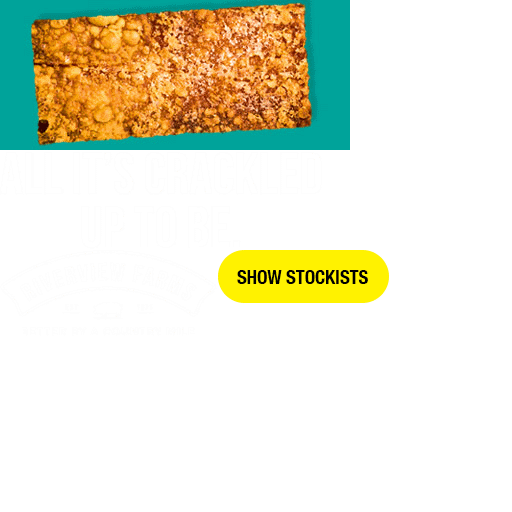
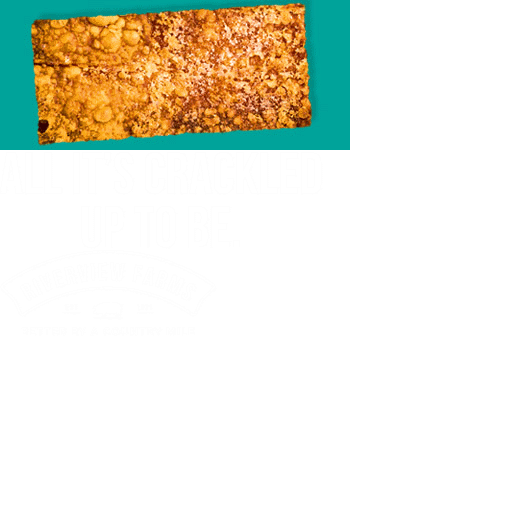
Add files via upload

Changed region(s): [[0.4062, 0.4688, 0.7812, 0.5938]]

diff --git a/index.js b/index.js
@@ -3,7 +3,7 @@
 var p; // shortcut to reference prototypes
 var lib={};var ss={};var img={};
 lib.ssMetadata = [
-		{name:"index_atlas_1", frames: [[0,152,322,96],[218,250,171,53],[0,0,350,150],[0,250,216,85]]}
+		{name:"index_atlas_1", frames: [[0,152,322,96],[0,0,350,150],[0,250,216,85]]}
 ];
 
 
@@ -33,23 +33,16 @@ lib.ssMetadata = [
 
 
 
-(lib.cta = function() {
+(lib.image1 = function() {
 	this.initialize(ss["index_atlas_1"]);
 	this.gotoAndStop(1);
 }).prototype = p = new cjs.Sprite();
 
 
 
-(lib.image1 = function() {
-	this.initialize(ss["index_atlas_1"]);
-	this.gotoAndStop(2);
-}).prototype = p = new cjs.Sprite();
-
-
-
 (lib.logo = function() {
 	this.initialize(ss["index_atlas_1"]);
-	this.gotoAndStop(3);
+	this.gotoAndStop(2);
 }).prototype = p = new cjs.Sprite();
 // helper functions:
 
@@ -95,7 +88,7 @@ if (reversed == null) { reversed = false; }
 p.nominalBounds = new cjs.Rectangle(0,0,165,52);
 
 
-(lib.Symbol10 = function(mode,startPosition,loop,reversed) {
+(lib.Symbol7 = function(mode,startPosition,loop,reversed) {
 if (loop == null) { loop = true; }
 if (reversed == null) { reversed = false; }
 	var props = new Object();
@@ -107,14 +100,13 @@ if (reversed == null) { reversed = false; }
 	cjs.MovieClip.apply(this,[props]);
 
 	// Layer_1
-	this.instance = new lib.cta();
-	this.instance.setTransform(0,0,0.8772,0.8771);
+	this.instance = new lib.logo();
 
 	this.timeline.addTween(cjs.Tween.get(this.instance).wait(1));
 
 	this._renderFirstFrame();
 
-}).prototype = getMCSymbolPrototype(lib.Symbol10, new cjs.Rectangle(0,0,150,46.5), null);
+}).prototype = getMCSymbolPrototype(lib.Symbol7, new cjs.Rectangle(0,0,216,85), null);
 
 
 (lib.Symbol5 = function(mode,startPosition,loop,reversed) {
@@ -187,29 +179,6 @@ if (reversed == null) { reversed = false; }
 p.nominalBounds = new cjs.Rectangle(0,0,350,150);
 
 
-(lib.Symbol2 = function(mode,startPosition,loop,reversed) {
-if (loop == null) { loop = true; }
-if (reversed == null) { reversed = false; }
-	var props = new Object();
-	props.mode = mode;
-	props.startPosition = startPosition;
-	props.labels = {};
-	props.loop = loop;
-	props.reversed = reversed;
-	cjs.MovieClip.apply(this,[props]);
-
-	// Layer_1
-	this.instance = new lib.logo();
-	this.instance.setTransform(0,0,1.1379,1.1379);
-
-	this.timeline.addTween(cjs.Tween.get(this.instance).wait(1));
-
-	this._renderFirstFrame();
-
-}).prototype = p = new cjs.MovieClip();
-p.nominalBounds = new cjs.Rectangle(0,0,245.8,96.7);
-
-
 (lib.Symbol1 = function(mode,startPosition,loop,reversed) {
 if (loop == null) { loop = true; }
 if (reversed == null) { reversed = false; }
@@ -232,7 +201,7 @@ if (reversed == null) { reversed = false; }
 p.nominalBounds = new cjs.Rectangle(0,0,322,96);
 
 
-(lib.Symbol8 = function(mode,startPosition,loop,reversed) {
+(lib.Symbol6 = function(mode,startPosition,loop,reversed) {
 if (loop == null) { loop = true; }
 if (reversed == null) { reversed = false; }
 	var props = new Object();
@@ -252,15 +221,15 @@ if (reversed == null) { reversed = false; }
 	this.timeline.addTween(cjs.Tween.get(this).wait(19).call(this.frame_19).wait(1));
 
 	// Layer_1
-	this.instance = new lib.Symbol10();
-	this.instance.setTransform(75,23.2,1,1,0,0,0,75,23.2);
+	this.instance = new lib.Symbol7();
+	this.instance.setTransform(108,42.5,1,1,0,0,0,108,42.5);
 
-	this.timeline.addTween(cjs.Tween.get(this.instance).to({regX:74.9,regY:23.1,scaleX:1.1641,scaleY:1.1641,x:75.1,y:23.25},9,cjs.Ease.get(-1)).wait(1).to({regX:75,regY:23.2,scaleX:1,scaleY:1,x:75,y:23.2},9,cjs.Ease.get(-1)).wait(1));
+	this.timeline.addTween(cjs.Tween.get(this.instance).to({scaleX:1.1713,scaleY:1.1713,x:108.05,y:42.55},9).to({scaleX:1,scaleY:1,x:108,y:42.5},10).wait(1));
 
 	this._renderFirstFrame();
 
 }).prototype = p = new cjs.MovieClip();
-p.nominalBounds = new cjs.Rectangle(-12.1,-3.6,174.6,54.1);
+p.nominalBounds = new cjs.Rectangle(-18.4,-7.2,253,99.5);
 
 
 // stage content:
@@ -294,13 +263,13 @@ if (reversed == null) { reversed = false; }
 		this.btn.addEventListener("mouseover", MYFUNCTION);
 		function MYFUNCTION()
 		{
-			root.cta.gotoAndPlay("over");
+			root.logo.gotoAndPlay("over");
 		}
 		
 		this.btn.addEventListener("mouseout", MYFUNCTION2);
 		function MYFUNCTION2()
 		{
-			root.cta.gotoAndPlay("out");
+			root.logo.gotoAndPlay("out");
 		}
 	}
 
@@ -310,28 +279,19 @@ if (reversed == null) { reversed = false; }
 	// Layer_7
 	this.ctaClick = new lib.Symbol11();
 	this.ctaClick.name = "ctaClick";
-	this.ctaClick.setTransform(796.2,61.05,1.1139,1.2691,0,0,0,82.5,26.4);
+	this.ctaClick.setTransform(624.15,60.9,1.3548,1.7247,0,0,0,82.6,26.4);
 	this.ctaClick._off = true;
 	new cjs.ButtonHelper(this.ctaClick, 0, 1, 2, false, new lib.Symbol11(), 3);
 
-	this.timeline.addTween(cjs.Tween.get(this.ctaClick).wait(60).to({_off:false},0).wait(5));
+	this.timeline.addTween(cjs.Tween.get(this.ctaClick).wait(34).to({_off:false},0).wait(31));
 
 	// btn
 	this.btn = new lib.Symbol5();
 	this.btn.name = "btn";
-	this.btn.setTransform(624,70,1,1,0,0,0,600,60);
+	this.btn.setTransform(624,60.1,1,0.8333,0,0,0,600,60.1);
 	new cjs.ButtonHelper(this.btn, 0, 1, 2, false, new lib.Symbol5(), 3);
 
 	this.timeline.addTween(cjs.Tween.get(this.btn).wait(65));
-
-	// cta
-	this.cta = new lib.Symbol8();
-	this.cta.name = "cta";
-	this.cta.setTransform(796,60.15,1.1158,1.1158,0,0,0,75,23.4);
-	this.cta.alpha = 0;
-	this.cta._off = true;
-
-	this.timeline.addTween(cjs.Tween.get(this.cta).wait(60).to({_off:false},0).to({alpha:1},4).wait(1));
 
 	// crackle_2
 	this.instance = new lib.Symbol4();
@@ -348,20 +308,19 @@ if (reversed == null) { reversed = false; }
 	this.timeline.addTween(cjs.Tween.get(this.instance_1).wait(9).to({rotation:-4.9659,y:20.35},5).to({rotation:0,y:35.8},5).wait(16).to({rotation:-4.9659,y:20.35},5).to({rotation:0,y:35.8},5).wait(20));
 
 	// logo
-	this.instance_2 = new lib.Symbol2();
-	this.instance_2.setTransform(624,60.05,1,1,0,0,0,122.9,48.4);
-	this.instance_2.alpha = 0;
-	this.instance_2._off = true;
-	new cjs.ButtonHelper(this.instance_2, 0, 1, 1);
+	this.logo = new lib.Symbol6();
+	this.logo.name = "logo";
+	this.logo.setTransform(624,60.5,1,1,0,0,0,108,42.5);
+	this.logo._off = true;
 
-	this.timeline.addTween(cjs.Tween.get(this.instance_2).wait(29).to({_off:false},0).to({alpha:1},5).wait(26).to({x:541.4},4).wait(1));
+	this.timeline.addTween(cjs.Tween.get(this.logo).wait(34).to({_off:false},0).wait(31));
 
 	// copy
-	this.instance_3 = new lib.Symbol1();
-	this.instance_3.setTransform(624,60,0.9295,0.9295,0,0,0,161,48);
-	new cjs.ButtonHelper(this.instance_3, 0, 1, 1);
+	this.instance_2 = new lib.Symbol1();
+	this.instance_2.setTransform(624,60,0.9295,0.9295,0,0,0,161,48);
+	new cjs.ButtonHelper(this.instance_2, 0, 1, 1);
 
-	this.timeline.addTween(cjs.Tween.get(this.instance_3).to({regX:161.1,regY:48.1,scaleX:1.0698,scaleY:1.0698,x:624.1,y:60.15},9).to({regX:161,regY:48,scaleX:0.9295,scaleY:0.9295,x:624,y:60},5).wait(15).to({alpha:0},5).to({_off:true},1).wait(30));
+	this.timeline.addTween(cjs.Tween.get(this.instance_2).to({regX:161.1,regY:48.1,scaleX:1.0698,scaleY:1.0698,x:624.1,y:60.15},9).to({regX:161,regY:48,scaleX:0.9295,scaleY:0.9295,x:624,y:60},5).wait(15).to({alpha:0},5).to({_off:true},1).wait(30));
 
 	this._renderFirstFrame();
 
@@ -376,7 +335,7 @@ lib.properties = {
 	color: "#00A490",
 	opacity: 1.00,
 	manifest: [
-		{src:"images/index_atlas_1.png?1603081342524", id:"index_atlas_1"}
+		{src:"images/index_atlas_1.png?1603083073231", id:"index_atlas_1"}
 	],
 	preloads: []
 };

diff --git a/index.html b/index.html
@@ -14,7 +14,7 @@
 <title>index</title>
 <!-- write your code here -->
 <script src="https://code.createjs.com/1.0.0/createjs.min.js"></script>
-<script src="index.js?1603081342574"></script>
+<script src="index.js?1603083073275"></script>
 <script>
 var canvas, stage, exportRoot, anim_container, dom_overlay_container, fnStartAnimation;
 function init() {
